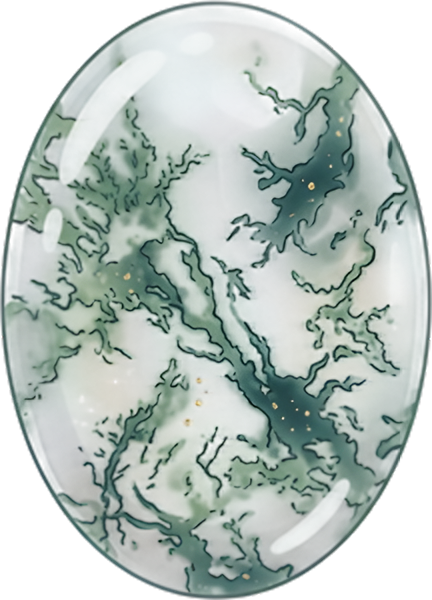
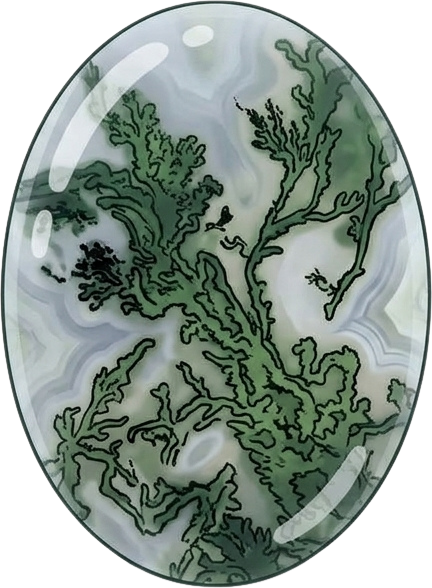
New moss agate picture; open cupboards show no scrollbar, their top or bottom edge falls into shadow while there is more that way, and they keep their scroll place when redrawn; the altar's tarot place does not press in on a click

diff --git a/css/style.css b/css/style.css
@@ -674,6 +674,13 @@ button.small{font-size:12px;padding:2px 10px}
 @media (prefers-reduced-motion:reduce){.shelfopen{animation-duration:.01s}}
 /* an open cupboard: its things stand against the cupboard's own wooden back, with no shelves drawn */
 .shelfopen .cabinside{flex:1;min-height:0;overflow:auto;padding:10px 6px;border:0;border-radius:0;box-shadow:inset 0 4px 12px rgba(0,0,0,.55);background:var(--cabinet-back) center/cover no-repeat,#2B1A13}
+/* no scrollbar inside a cupboard; instead its top or bottom falls into shadow while there is more that way (see renderShelves) */
+.shelfopen .cabinside{scrollbar-width:none}
+.shelfopen .cabinside::-webkit-scrollbar{display:none}
+.shelfopen::before,.shelfopen::after{content:'';position:absolute;left:0;right:0;height:min(80px,18%);pointer-events:none;z-index:1;opacity:0;transition:opacity .25s ease}
+.shelfopen::before{top:0;background:linear-gradient(rgba(12,6,3,.92),rgba(12,6,3,.5) 45%,transparent)}
+.shelfopen::after{bottom:0;background:linear-gradient(transparent,rgba(12,6,3,.5) 55%,rgba(12,6,3,.95))}
+.shelfopen.moreup::before,.shelfopen.moredown::after{opacity:1}
 .shelfopen .chips,.shelfopen .chips.shelf{border-radius:6px;background:none;box-shadow:none}
 .shelfopen .swatch{width:46px;height:46px}
 
@@ -722,6 +729,7 @@ button.small{font-size:12px;padding:2px 10px}
 .cardbed.empty{border:.16cqw dashed rgba(255,236,246,.8);box-shadow:none;background:rgba(255,230,245,.06)}
 /* the empty outline stays put; its inside fills in a little and it glows pink like the other things (a box-shadow: the outline is too faint for a drop-shadow) */
 .ontable.laid:hover .cardbed.empty{background:rgba(255,230,245,.22);box-shadow:0 0 .5cqw .15cqw rgba(255,214,240,.95),0 0 1.4cqw .4cqw rgba(244,173,207,.75),inset 0 0 .6cqw rgba(255,214,240,.6)}
+#tarotSlot .ontable:active{transform:none}  /* the card's place does not press in on a click: it lies on the table */
 .ontable .slotcard{height:100%;border-radius:.3cqw;box-shadow:0 .3cqw .6cqw rgba(0,0,0,.45);margin:0}
 .candle{position:relative;display:block;width:1.6cqw;height:5.2cqw;border-radius:3px 3px 2px 2px;background:var(--cc);box-shadow:inset -.3cqw 0 0 rgba(0,0,0,.18),0 .3cqw .4cqw rgba(0,0,0,.4)}
 .candle::before{content:"";position:absolute;left:50%;top:-1.5cqw;width:.8cqw;height:1.4cqw;translate:-50% 0;border-radius:50% 50% 50% 50% / 60% 60% 40% 40%;

diff --git a/js/scene.js b/js/scene.js
@@ -132,7 +132,13 @@ function renderShelves(){
   box.hidden=false;box.className='shelfopen from'+side+(openShelf==='Tarot'?' wide':'');
   /* a newly opened cupboard plays its coming-out again */
   if(shownShelf!==openShelf){box.style.animation='none';void box.offsetWidth;box.style.animation='';shownShelf=openShelf}
-  box.setAttribute('aria-label',SHELFNAME[openShelf]||openShelf);box.innerHTML=`<div class="cabinside"><div class="chips${SHELF_CATEGORIES.includes(openShelf)?' shelf':''}">${shelfItemsHTML(openShelf)}</div></div>`}
+  const was=box.querySelector('.cabinside'),top=was&&box.dataset.shelf===openShelf?was.scrollTop:0;box.dataset.shelf=openShelf;
+  box.setAttribute('aria-label',SHELFNAME[openShelf]||openShelf);box.innerHTML=`<div class="cabinside"><div class="chips${SHELF_CATEGORIES.includes(openShelf)?' shelf':''}">${shelfItemsHTML(openShelf)}</div></div>`;
+  /* No scrollbar: the cupboard scrolls, and its top or bottom edge falls into shadow while there is more that way.
+     It keeps its place when a click redraws it. */
+  const ins=box.querySelector('.cabinside');ins.scrollTop=top;
+  const edges=()=>{const more=ins.scrollHeight-ins.clientHeight-ins.scrollTop;box.classList.toggle('moreup',ins.scrollTop>2);box.classList.toggle('moredown',more>2)};
+  ins.addEventListener('scroll',edges,{passive:true});ins.addEventListener('load',edges,true);edges()}
 /* how tall an ingredient stands (ITEM_SIZE in config.js) */
 const sizeOf=n=>ITEM_SIZE[n]??ITEM_SIZE_BY_SHELF[ITEM[n]?.c]??.7;
 function shelfItemsHTML(c){
